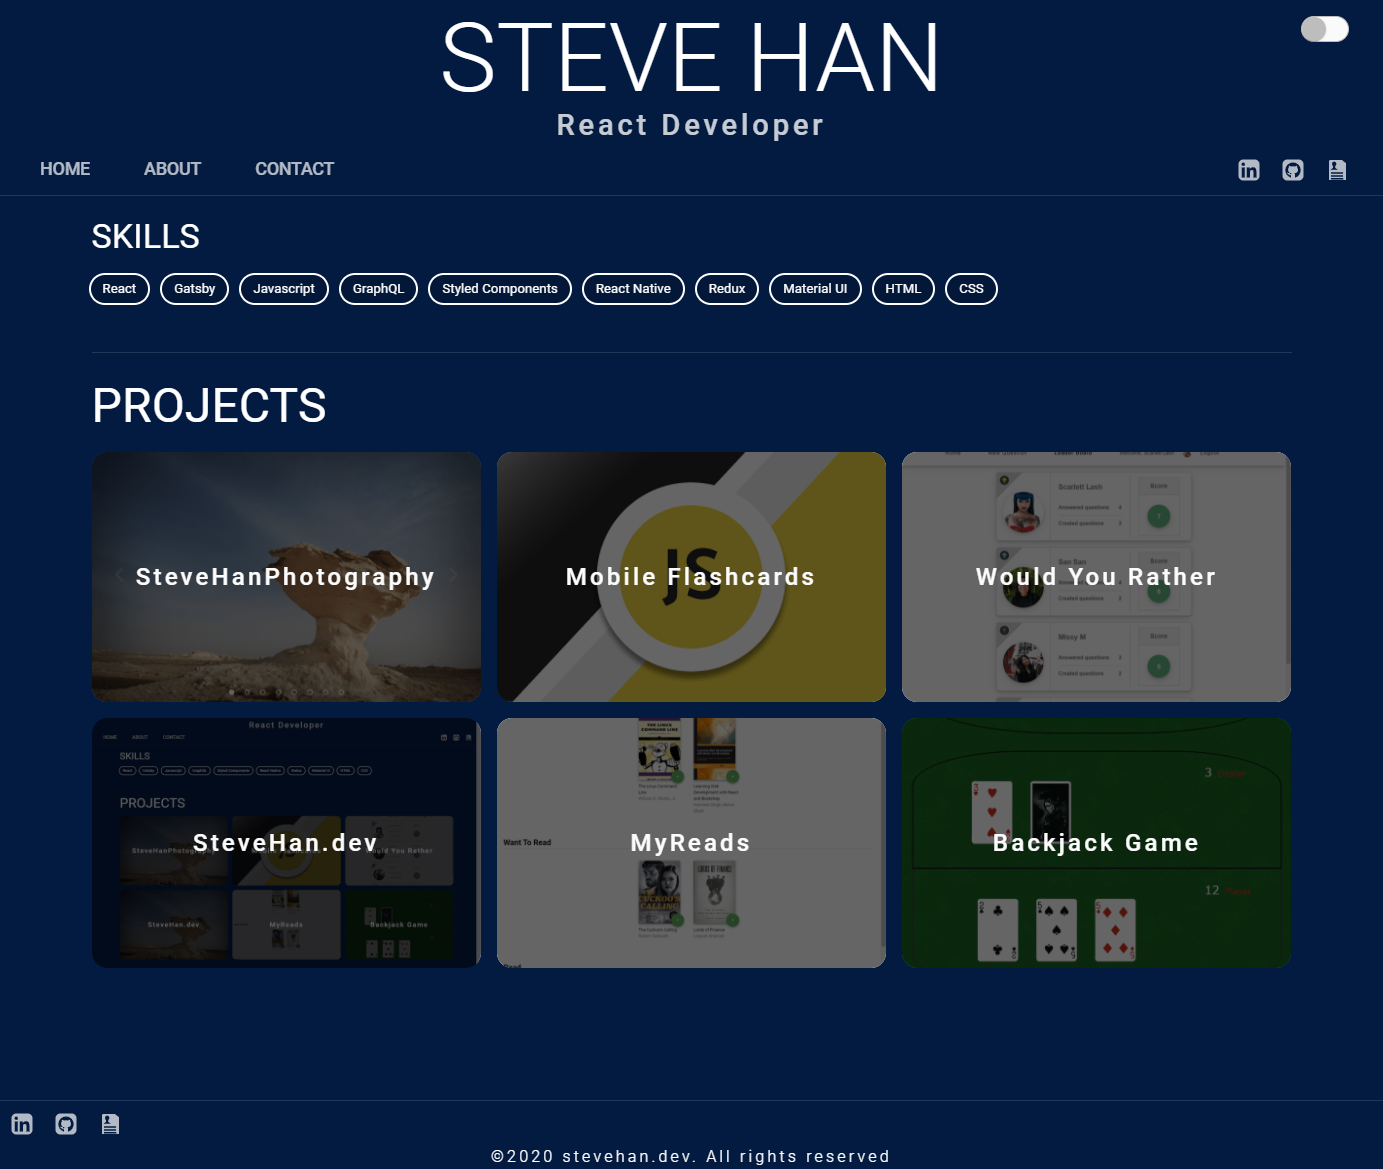
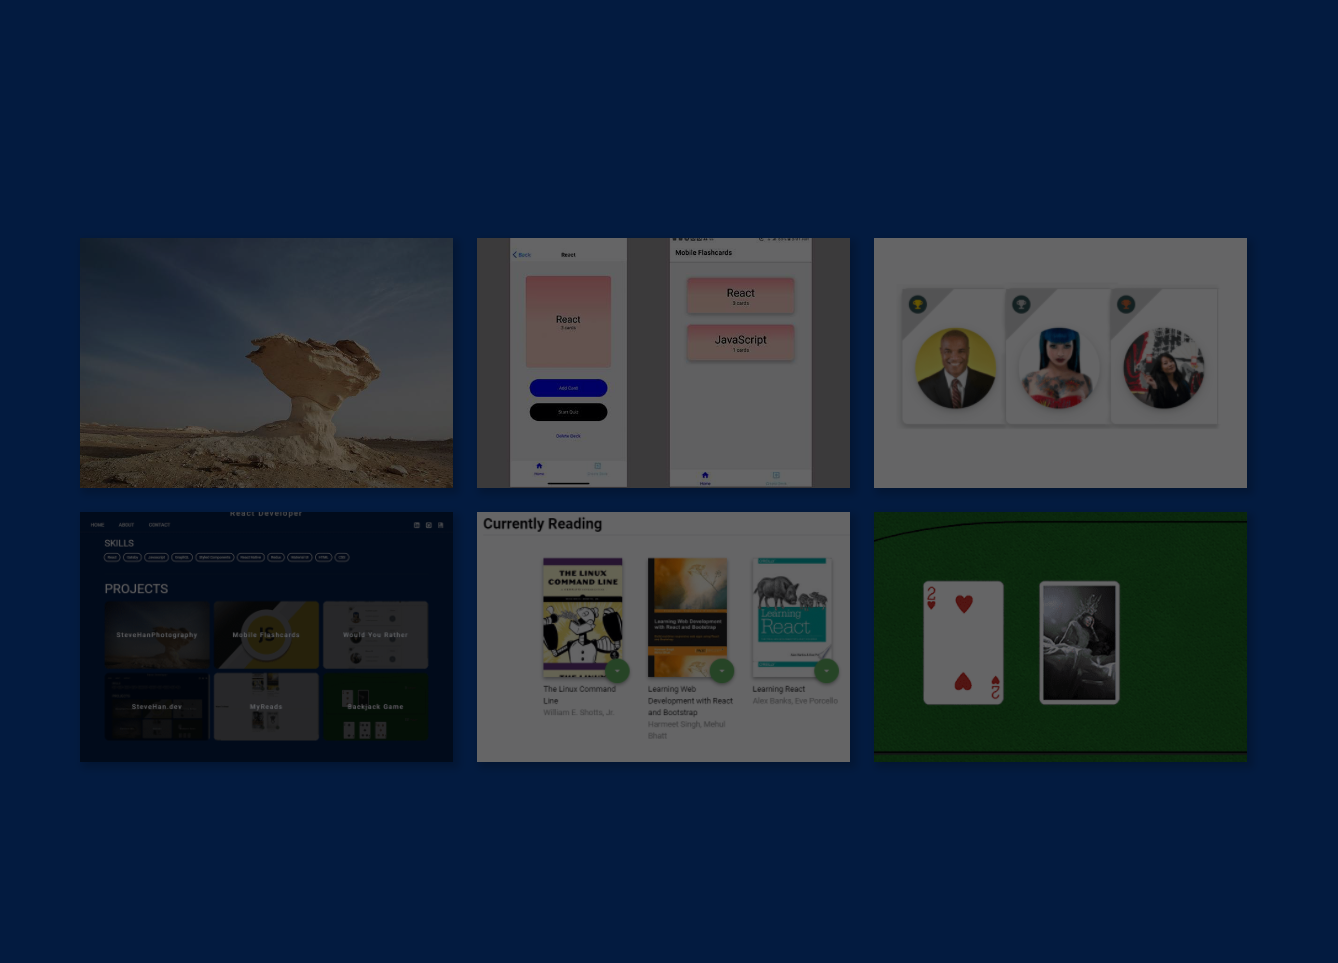
Replaced project images and added a screenshot image for use in MDX markup later

diff --git a/src/components/Projects/Project.js b/src/components/Projects/Project.js
@@ -128,7 +128,7 @@ const Project = ({ frontmatter, excerpt }) => {
   const { title, subtitle, image, slug, date, skills, website, github } = frontmatter
 //  const test_string = slug
   const classes = useStyles()
-//  console.log(frontmatter)
+  console.log(frontmatter)
   
   return (
     <>
